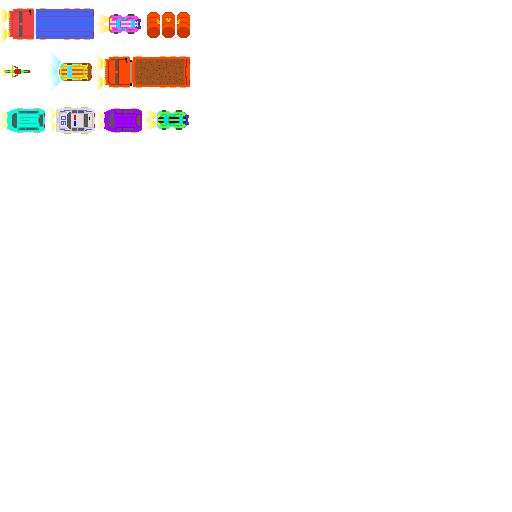
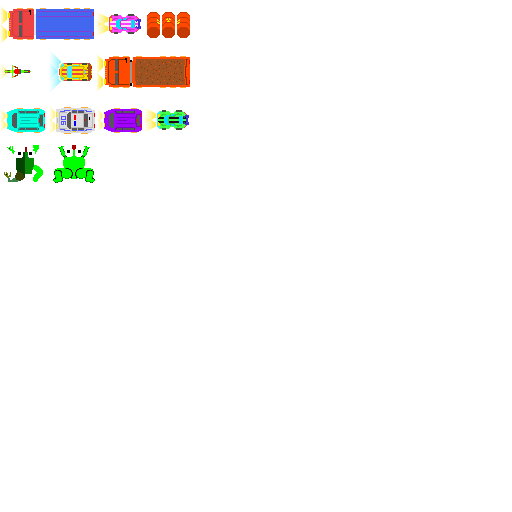
Grenouilles !!! :)
git-svn-id: https://svn.aep.polymtl.ca/svn/GCA3OursCureuil@49 05535eda-d6a5-4ac4-b685-4147b9d08a8c

Changed region(s): [[0.0, 0.2812, 0.1875, 0.375]]

diff --git a/ourscureuil/src/ca/polymtl/ourscureuil/Frog.java b/ourscureuil/src/ca/polymtl/ourscureuil/Frog.java
@@ -23,18 +23,11 @@ public class Frog extends Node {
 	static final float HITBOX_WIDTH = 48.0f;
 	static final float HITBOX_HEIGHT = 48.0f;
 	protected static final Texture projectileTextureList = new Texture(Gdx.files.internal("data/vehicles_512.png"));
-	static protected TextureRegion texreg = new TextureRegion(projectileTextureList, 144, 0, 48, 48);	
+	static protected TextureRegion texreg = new TextureRegion(projectileTextureList, 48, 144, 48, 48);	
 	
 	private float mTimeLeft = 6;
 	
 	public void SetMovement(Vector2 movement) {
-		float dX = this.x + movement.x;
-//		float dX = (float) Math.sin(this.x + movement.x);
-//		if(sinX > 0 && sinX < 0.5)
-//			dX = 0.0f;
-//		else if(dX < 0 && dX > -0.5) {
-//			dX = 0.0f;
-//		}
 		this.action(Repeat.$(Sequence.$(MoveBy.$(movement.x, movement.y, 1), MoveBy.$(-movement.x, movement.y, 1)),5));
 	}
 
